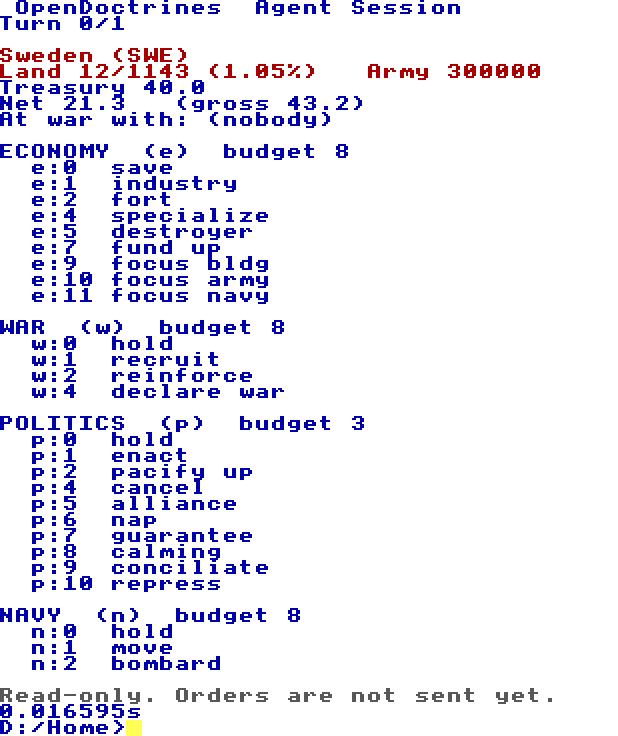
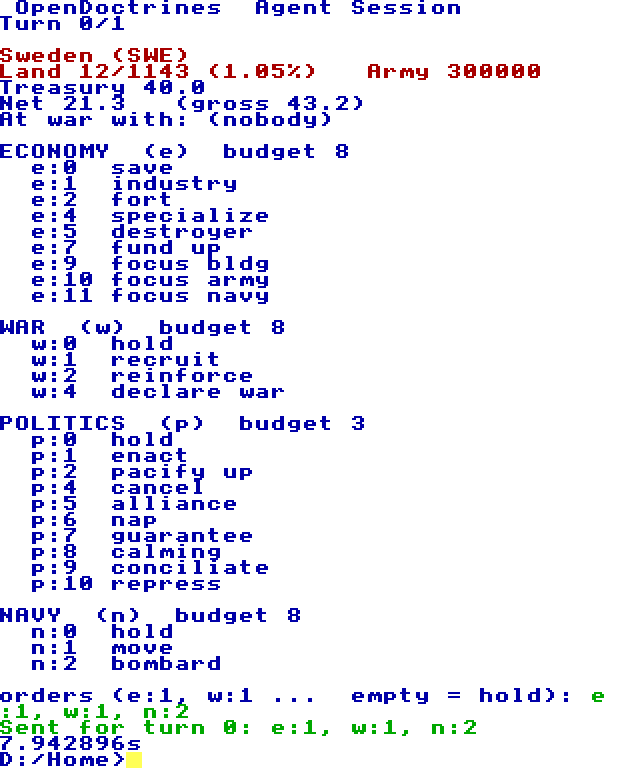
Play a turn from TempleOS, and have the engine take it
OpenDoc.HC now prompts for a line of module:action tokens and writes
orders.txt with the turn it answers. An action the menu did not offer is
refused before it is written -- the engine drops an unknown token silently,
which from the guest looks exactly like being ignored.

vm.sh gains pull, the other half of push. A line typed in the guest reached
the engine and played turn 0.

diff --git a/templeos/README.md b/templeos/README.md
@@ -37,16 +37,34 @@ game — same map, same AI opponents, same rules.
 | Getting files into a guest | ✅ `templeos/vm.sh push` — TempleOS installs onto FAT32 |
 | `OpenDoc.HC` compiles under HolyC | ✅ |
 | `OpenDoc.HC` parses and draws a real turn | ✅ **on a real machine — screenshot below** |
-| `OpenDoc.HC` sends orders back | ❌ not started |
+| `OpenDoc.HC` sends orders back | ✅ the engine accepted a line typed in TempleOS |
+| Files back out of the guest | ✅ `templeos/vm.sh pull` |
 
 ![Open Doctrines running on TempleOS](../docs/img/templeos-running.png)
 
 That is TempleOS V5.03 under QEMU, reading a turn the engine's agent door
 actually printed: Sweden in 1914, twelve provinces of 1,143, an army of 300,000,
-and the four menus it may act through. Everything on it came out of
-`[AGENT]` lines; nothing is mocked.
+and the four menus it may act through. Everything on it came out of `[AGENT]`
+lines; nothing is mocked. The line at the bottom was typed at that prompt, and
+the file it wrote was handed to the engine, which played the turn:
 
-Still read-only. Writing `orders.txt` back is the easy half and is next.
+```
+turn 0: sent 'e:1, w:1, n:2'
+bridge: 1 turn(s) exchanged. [BENCH] seat 1914:SWE (rung) for 1 turns
+```
+
+So the loop is closed: **the host runs the engine, TempleOS runs the player**,
+and the only thing passing between them is a 23-byte file.
+
+An action the menu did not offer is refused before it is written. The engine
+drops a token it does not recognise without saying so, which from the guest is
+indistinguishable from an order that was carried out — a typo would read as the
+game ignoring you. Typing `e:3` when economy offers 0, 1, 2, 4, 5, 7, 9, 10, 11
+gets *"ECONOMY has no action 3 this turn"* and writes nothing.
+
+What is left is cadence, not capability: each exchange stops and restarts the
+VM, because mounting a filesystem a running guest has open would corrupt it.
+At one turn per hour that is irrelevant; for a rapid game it would not do.
 
 ## Running it yourself
 
@@ -56,9 +74,18 @@ templeos/vm.sh boot                           # install TempleOS from the ISO
 templeos/vm.sh push templeos/OpenDoc.HC turn.txt
 templeos/vm.sh run
 templeos/vm.sh shot /tmp/screen.png           # look, without a window
+templeos/vm.sh pull orders.txt /tmp/          # bring the answer back
 ```
 
 Then in the guest: `#include "OpenDoc"` and `OpenDoc;`.
+
+A whole turn, host side:
+
+```
+python3 templeos/bridge.py --build build --dir /tmp/odloop --turns 1 &
+templeos/vm.sh push /tmp/odloop/turn.txt      # ... play it in the guest ...
+templeos/vm.sh pull orders.txt /tmp/odloop/   # the engine takes it from here
+```
 
 The ISO is not in this repository. Get it from templeos.org and check it
 against their `md5sums.txt` before booting it.
